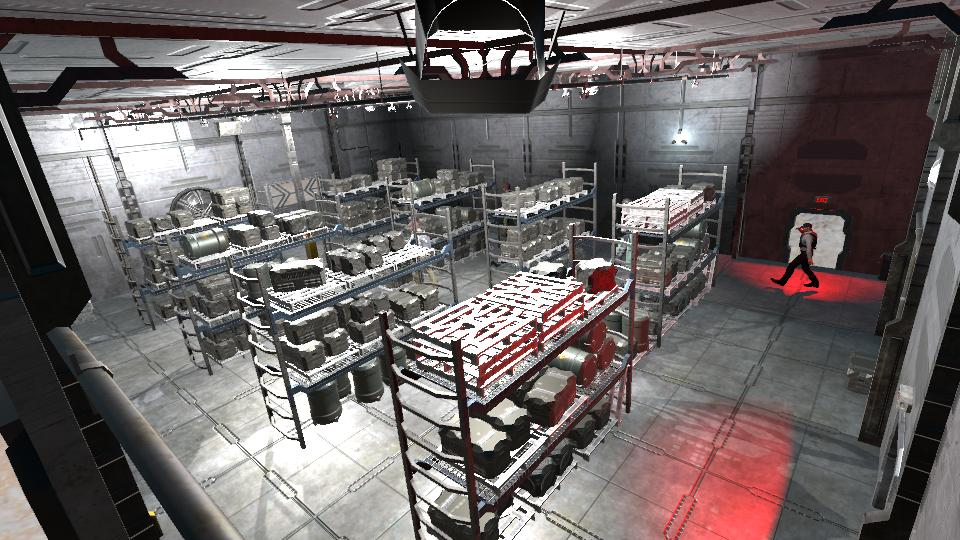
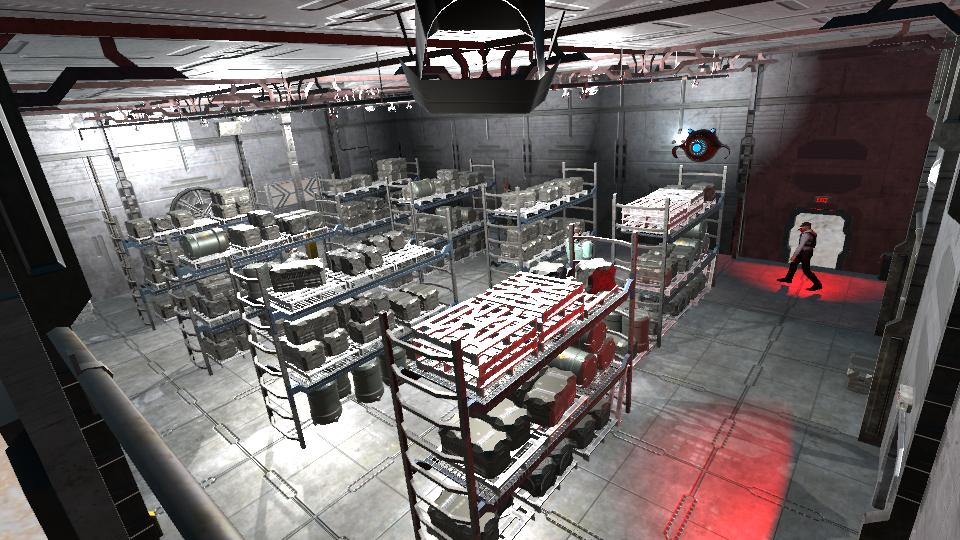
Drone smooth and more frames

diff --git a/UnityEvidencia2/Assets/Scripts/WebSocketClient.cs b/UnityEvidencia2/Assets/Scripts/WebSocketClient.cs
@@ -435,7 +435,7 @@ public class WebSocketClient : MonoBehaviour
                 }
             }
 
-            yield return new WaitForSeconds(5f); //Speed to change pictirus
+            yield return new WaitForSeconds(2f); // Reduce the interval to 2 seconds
         }
     }
 
@@ -449,7 +449,7 @@ public class WebSocketClient : MonoBehaviour
                 SendDroneCameraFrame(imageBytes);
             }
 
-            yield return new WaitForSeconds(1f);
+            yield return new WaitForSeconds(0.5f); // Reduce the interval to 0.5 seconds
         }
     }
 
@@ -569,7 +569,11 @@ public class WebSocketClient : MonoBehaviour
             new Vector3(14, 7, 15),
             new Vector3(21, 7, 27),
             new Vector3(8, 7, 20),
-            new Vector3(16, 7, 10)
+            new Vector3(16, 7, 10),
+            new Vector3(10, 7, 5),
+            new Vector3(18, 7, 25),
+            new Vector3(6, 7, 18),
+            new Vector3(12, 7, 12)
         };
 
         isInvestigating = true;
@@ -583,14 +587,14 @@ public class WebSocketClient : MonoBehaviour
             {
                 Vector3 target = investigationRoute[i];
                 Debug.Log($"[Unity] Moving to waypoint {i + 1}: {target}");
-                yield return StartCoroutine(MoveDrone(target, () =>
+                yield return StartCoroutine(SmoothMoveDrone(target, () =>
                 {
                     Debug.Log("[Unity] Drone reached waypoint. Capturing frame for analysis.");
                     byte[] droneImageBytes = CaptureDroneCameraFrame();
                     SendDroneCameraFrame(droneImageBytes);
                 }));
 
-                yield return new WaitForSeconds(2f);
+                yield return new WaitForSeconds(1f); // Reduce the interval to 1 second
 
                 // Verifica si hay detección después de cada punto
                 if (CheckForDetection())
@@ -626,7 +630,7 @@ public class WebSocketClient : MonoBehaviour
         }
 
         Debug.Log("[Unity] Investigation complete. Returning to landing station.");
-        yield return StartCoroutine(MoveDrone(landingStation, () =>
+        yield return StartCoroutine(SmoothMoveDrone(landingStation, () =>
         {
             Debug.Log("[Unity] Drone has returned to landing station.");
         }));
@@ -649,8 +653,28 @@ public class WebSocketClient : MonoBehaviour
         onArrival?.Invoke();
     }
 
+    private IEnumerator SmoothMoveDrone(Vector3 target, Action onArrival)
+    {
+        Debug.Log($"Drone moving to target position: {target}");
+        while (Vector3.Distance(drone.transform.position, target) > 0.1f)
+        {
+            float step = droneSpeed * Time.deltaTime;
+            drone.transform.position = Vector3.MoveTowards(drone.transform.position, target, step);
 
+            // Adjust rotation smoothly towards the center
+            Vector3 center = new Vector3(12, drone.transform.position.y, 15);
+            Vector3 direction = (center - drone.transform.position).normalized;
+            if (direction != Vector3.zero)
+            {
+                Quaternion toRotation = Quaternion.LookRotation(direction, Vector3.up);
+                drone.transform.rotation = Quaternion.RotateTowards(drone.transform.rotation, toRotation, step * 100);
+            }
 
+            yield return null;
+        }
+        Debug.Log("Drone reached the target position.");
+        onArrival?.Invoke();
+    }
 
     private bool CheckForDetection()
     {
